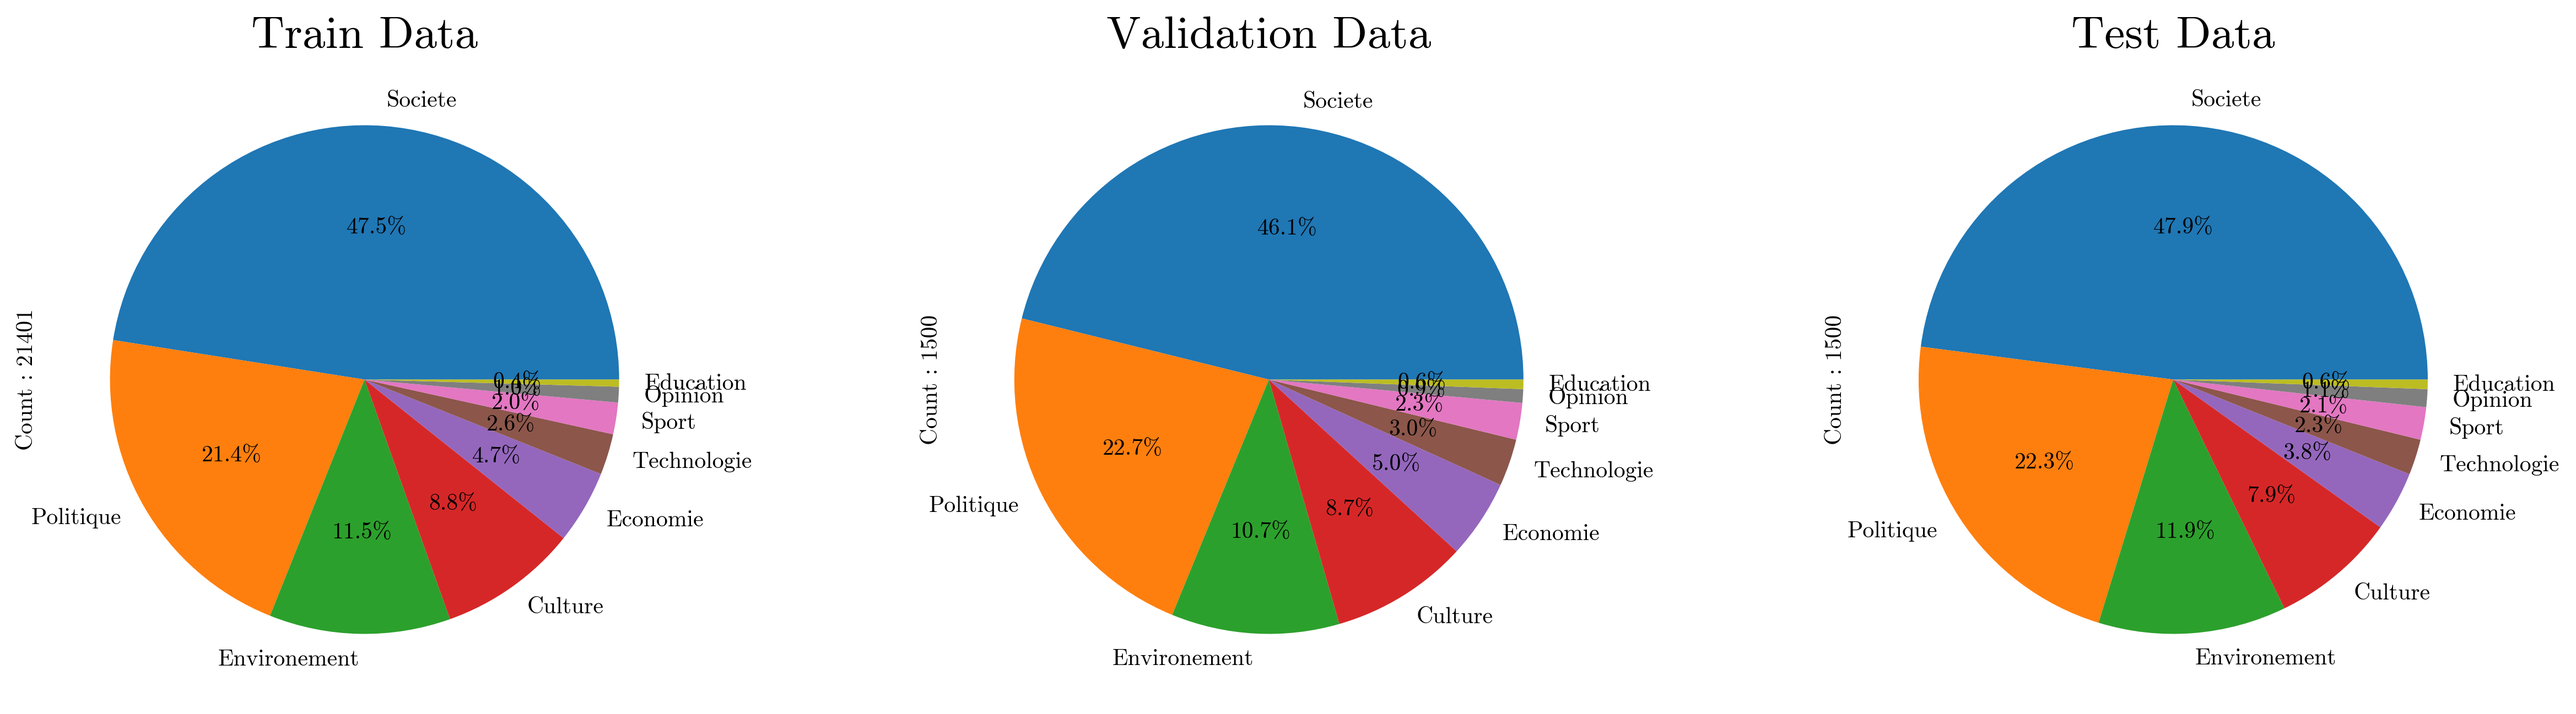
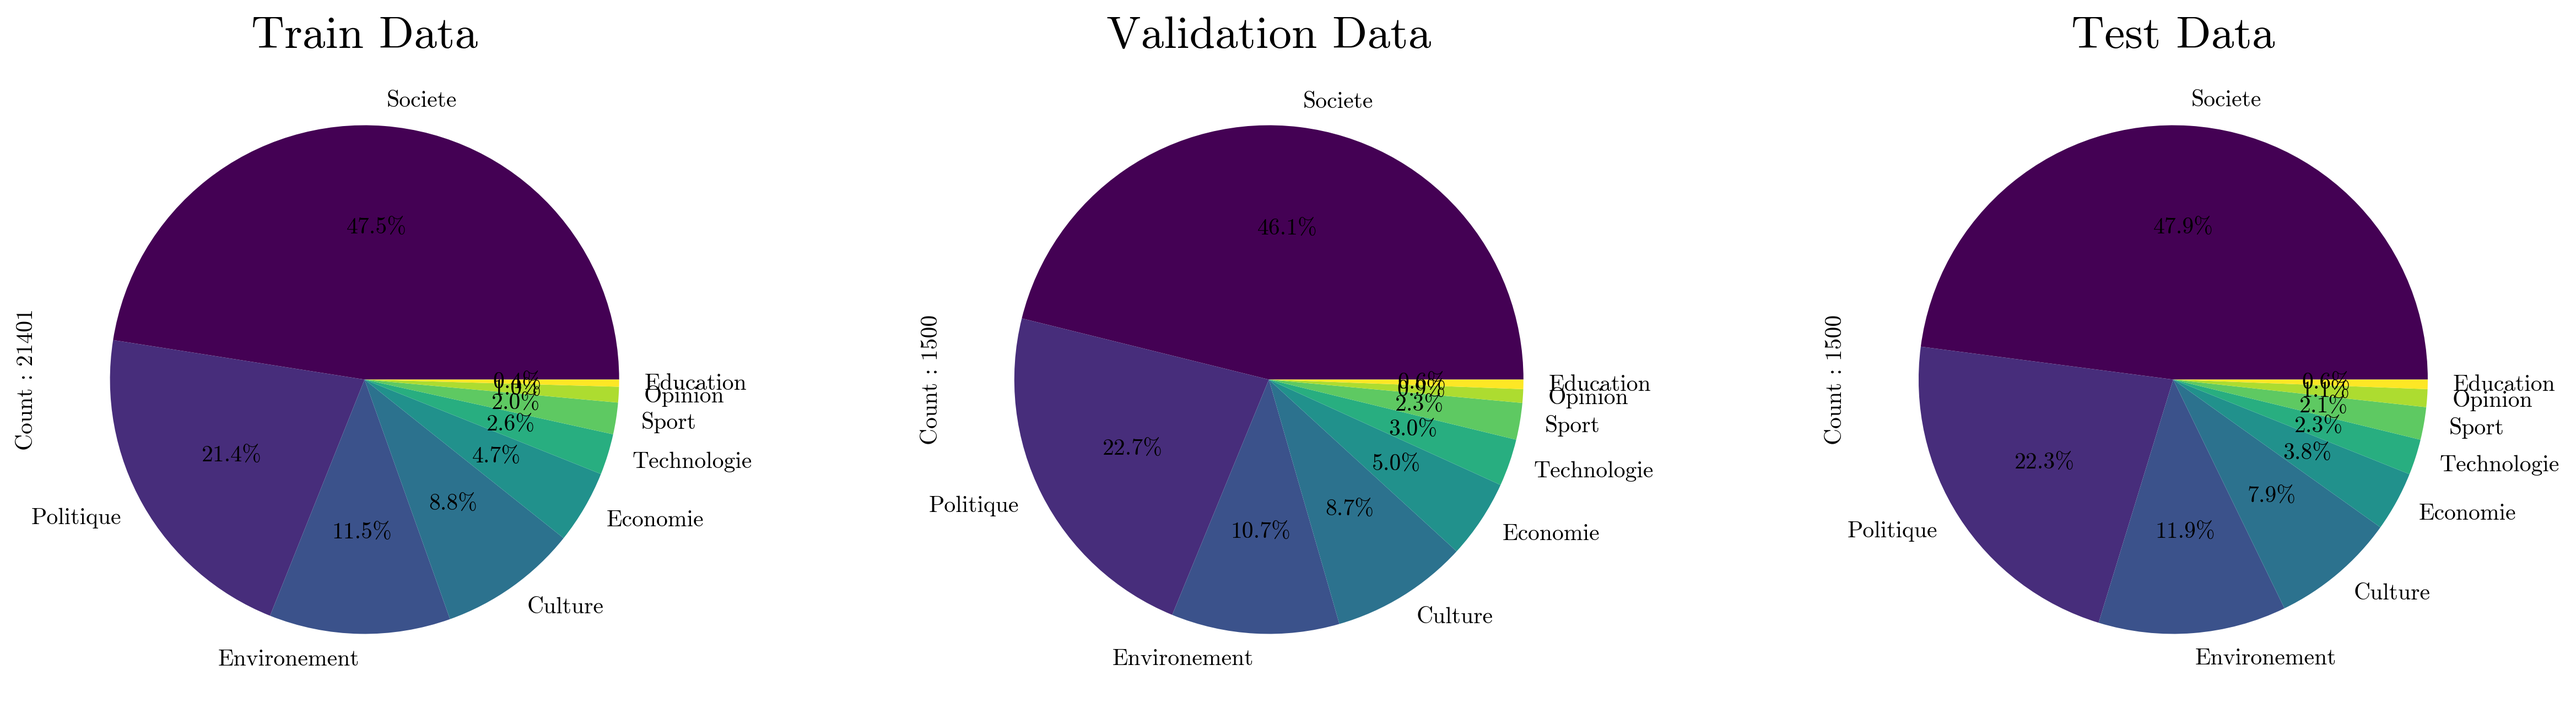
add pca embeddings
and update the cmap colors because prettier

diff --git a/run_dataset.py b/run_dataset.py
@@ -1,19 +1,22 @@
 # Run Analysis on the dataset
 
-from functools import total_ordering
-from torch import values_copy
+import pandas as pd
+import numpy as np
 from src.load_data import load_data
-from src.load_models import device
+from src.load_models import device, t5_base_fr_sum_cnndm
 from src.labels import labels_classification
+
+from src.evaluation import embeddings
 
 from sklearn.decomposition import PCA
 from matplotlib import pyplot as plt
 
 # Load model directly
-from transformers import AutoTokenizer, AutoModelForSequenceClassification
+from transformers import AutoTokenizer, AutoModelForSequenceClassification, trainer
 
 
 def generate_labels():
+    """Generate classification labels for the dataset using Flaubert topic classification model"""
     train_df, validation_df, test_df = load_data()
 
     # Now compute the genre of each text using a hugging face model
@@ -53,24 +56,32 @@ def generate_labels():
 
 
 def labels_analysis():
+    """Generate a pie plot of the labels distribution"""
+
     TRAIN_PATH = "data/train_labels.csv"
     VALIDATION_PATH = "data/validation_labels.csv"
     TEST_PATH = "data/test_labels.csv"
     train_df, validation_df, test_df = load_data(TRAIN_PATH, VALIDATION_PATH, TEST_PATH)
 
-    fix, axs = plt.subplots(1, 3, figsize=(20, 5))
+    _, axs = plt.subplots(1, 3, figsize=(20, 5))
     plt.rcParams["font.family"] = "cmr10"
 
     # pie plot
-    train_df["genre"].value_counts().plot.pie(ax=axs[0], autopct="%1.1f%%")
+    train_df["genre"].value_counts().plot.pie(
+        ax=axs[0], autopct="%1.1f%%", cmap="viridis"
+    )
     axs[0].set_title("Train Data", fontproperties="cmr10", fontsize=20)
     axs[0].set_ylabel("Count : " + str(len(train_df)), fontproperties="cmr10")
 
-    validation_df["genre"].value_counts().plot.pie(ax=axs[1], autopct="%1.1f%%")
+    validation_df["genre"].value_counts().plot.pie(
+        ax=axs[1], autopct="%1.1f%%", cmap="viridis"
+    )
     axs[1].set_title("Validation Data", fontproperties="cmr10", fontsize=20)
     axs[1].set_ylabel("Count : " + str(len(validation_df)), fontproperties="cmr10")
 
-    test_df["genre"].value_counts().plot.pie(ax=axs[2], autopct="%1.1f%%")
+    test_df["genre"].value_counts().plot.pie(
+        ax=axs[2], autopct="%1.1f%%", cmap="viridis"
+    )
     axs[2].set_title("Test Data", fontproperties="cmr10", fontsize=20)
     axs[2].set_ylabel("Count : " + str(len(test_df)), fontproperties="cmr10")
 
@@ -78,27 +89,82 @@ def labels_analysis():
     plt.savefig("docs/labels_repartition.png", bbox_inches="tight", dpi=300)
 
 
-def pca_analysis():
-    total_df = load_data("data/total_df_embeddings.csv")
-    tokenizer = AutoTokenizer.from_pretrained("t5-small")
+def add_embeddings():
+    """Add embeddings given a tokenizer to the dataframes"""
+    TRAIN_PATH = "data/train_labels.csv"
+    VALIDATION_PATH = "data/validation_labels.csv"
+    TEST_PATH = "data/test_labels.csv"
+
+    train_df, validation_df, test_df = load_data(TRAIN_PATH, VALIDATION_PATH, TEST_PATH)
+    _, tokenizer = t5_base_fr_sum_cnndm()
+
+    # generate the embeddings with the tokenizer
+    train_df["embeddings"] = embeddings(train_df.text, tokenizer, 16)
+    validation_df["embeddings"] = embeddings(validation_df.text, tokenizer, 16)
+    test_df["embeddings"] = embeddings(test_df.text, tokenizer, 16)
+
+    # save the dataframes
+    train_df.to_csv("data/train_df_embeddings.csv", index=False)
+    validation_df.to_csv("data/validation_df_embeddings.csv", index=False)
+    test_df.to_csv("data/test_df_embeddings.csv", index=False)
+
+
+def pca_analysis(save: bool = False):
+    """Perform PCA analysis on the embeddings"""
+
+    print("Performing PCA analysis on the embeddings")
+
+    TRAIN_PATH = "data/train_df_embeddings.csv"
+    VALIDATION_PATH = "data/validation_df_embeddings.csv"
+    TEST_PATH = "data/test_df_embeddings.csv"
+
+    print("Loading data")
+    train_df, validation_df, test_df = load_data(TRAIN_PATH, VALIDATION_PATH, TEST_PATH)
+
+    all_df = [train_df, validation_df, test_df]
+    total_df = pd.concat(all_df)
+
+    classes = total_df["genre"].unique()
+    total_df["color"] = total_df["genre"].apply(lambda x: classes.tolist().index(x))
 
     pca = PCA(n_components=2)
     # total_df = train_df.append(validation_df).append(test_df)
 
-    # tokenize the text
-    total_df["embeddings"] = total_df["text"].apply(
-        lambda x: tokenizer(x, return_tensors="pt", padding=True, truncation=True)
+    print("Fitting PCA")
+
+    X = np.array(total_df["embeddings"].apply(lambda x: x[1:-1].split(",")))
+    X = np.array([np.array(x) for x in X])
+    X = X.astype(float)
+
+    X_pca = pca.fit_transform(X)
+
+    plt.rcParams["font.family"] = "cmr10"
+
+    _ = plt.figure(figsize=(20, 10))
+
+    scatter = plt.scatter(X_pca[:, 0], X_pca[:, 1], c=total_df["color"], cmap="viridis")
+    plt.xlabel("PCA 1", fontproperties="cmr10")
+    plt.ylabel("PCA 2", fontproperties="cmr10")
+
+    plt.title(
+        "PCA analysis of the embeddings with color classes", fontproperties="cmr10"
     )
+    handles = scatter.legend_elements()[0]
+    plt.legend(handles, classes, title="Classes", prop={"family": "cmr10"})
+    plt.savefig("docs/pca_labels.png", bbox_inches="tight", dpi=300)
+    # plt.show()
 
-    total_df.to_csv("data/total_df_embeddings.csv", index=False)
+    if save:
+        # Save PCA values
+        total_df["pca1"] = X_pca[:, 0]
+        total_df["pca2"] = X_pca[:, 1]
 
-    X = pca.fit_transform(total_df["embeddings"].values)
-    plt.scatter(X[:, 0], X[:, 1], c=total_df["genre"], cmap="viridis")
-    plt.legend()
-    plt.show()
+        total_df.to_csv("data/total_df_embeddings.csv", index=False)
 
 
 if __name__ == "__main__":
     # generate_labels()
-    labels_analysis()
+    # labels_analysis()
+    # add_embeddings()
     # pca_analysis()
+    pass

diff --git a/src/evaluation.py b/src/evaluation.py
@@ -1,9 +1,24 @@
 """Evaluate models and generate submissions"""
 
-from transformers import AutoModelForSeq2SeqLM
 import pandas as pd
 from tqdm import tqdm
+from transformers import AutoModelForSeq2SeqLM
+
 from src.metrics import Tokenizer
+
+
+def embeddings(text: pd.Series, toknizer: Tokenizer, batch_size: int = 16) -> pd.Series:
+    """
+    Generate embeddings using the given tokenizer and return the pd.Series of embeddings
+    """
+    embeddings = []
+
+    for i in tqdm(range(0, len(text), batch_size)):
+        batch = text[i : i + batch_size]
+        input_text = toknizer(batch.tolist(), padding=True, truncation=True).input_ids
+        embeddings.extend(input_text)
+
+    return pd.Series(embeddings)
 
 
 def summary(
